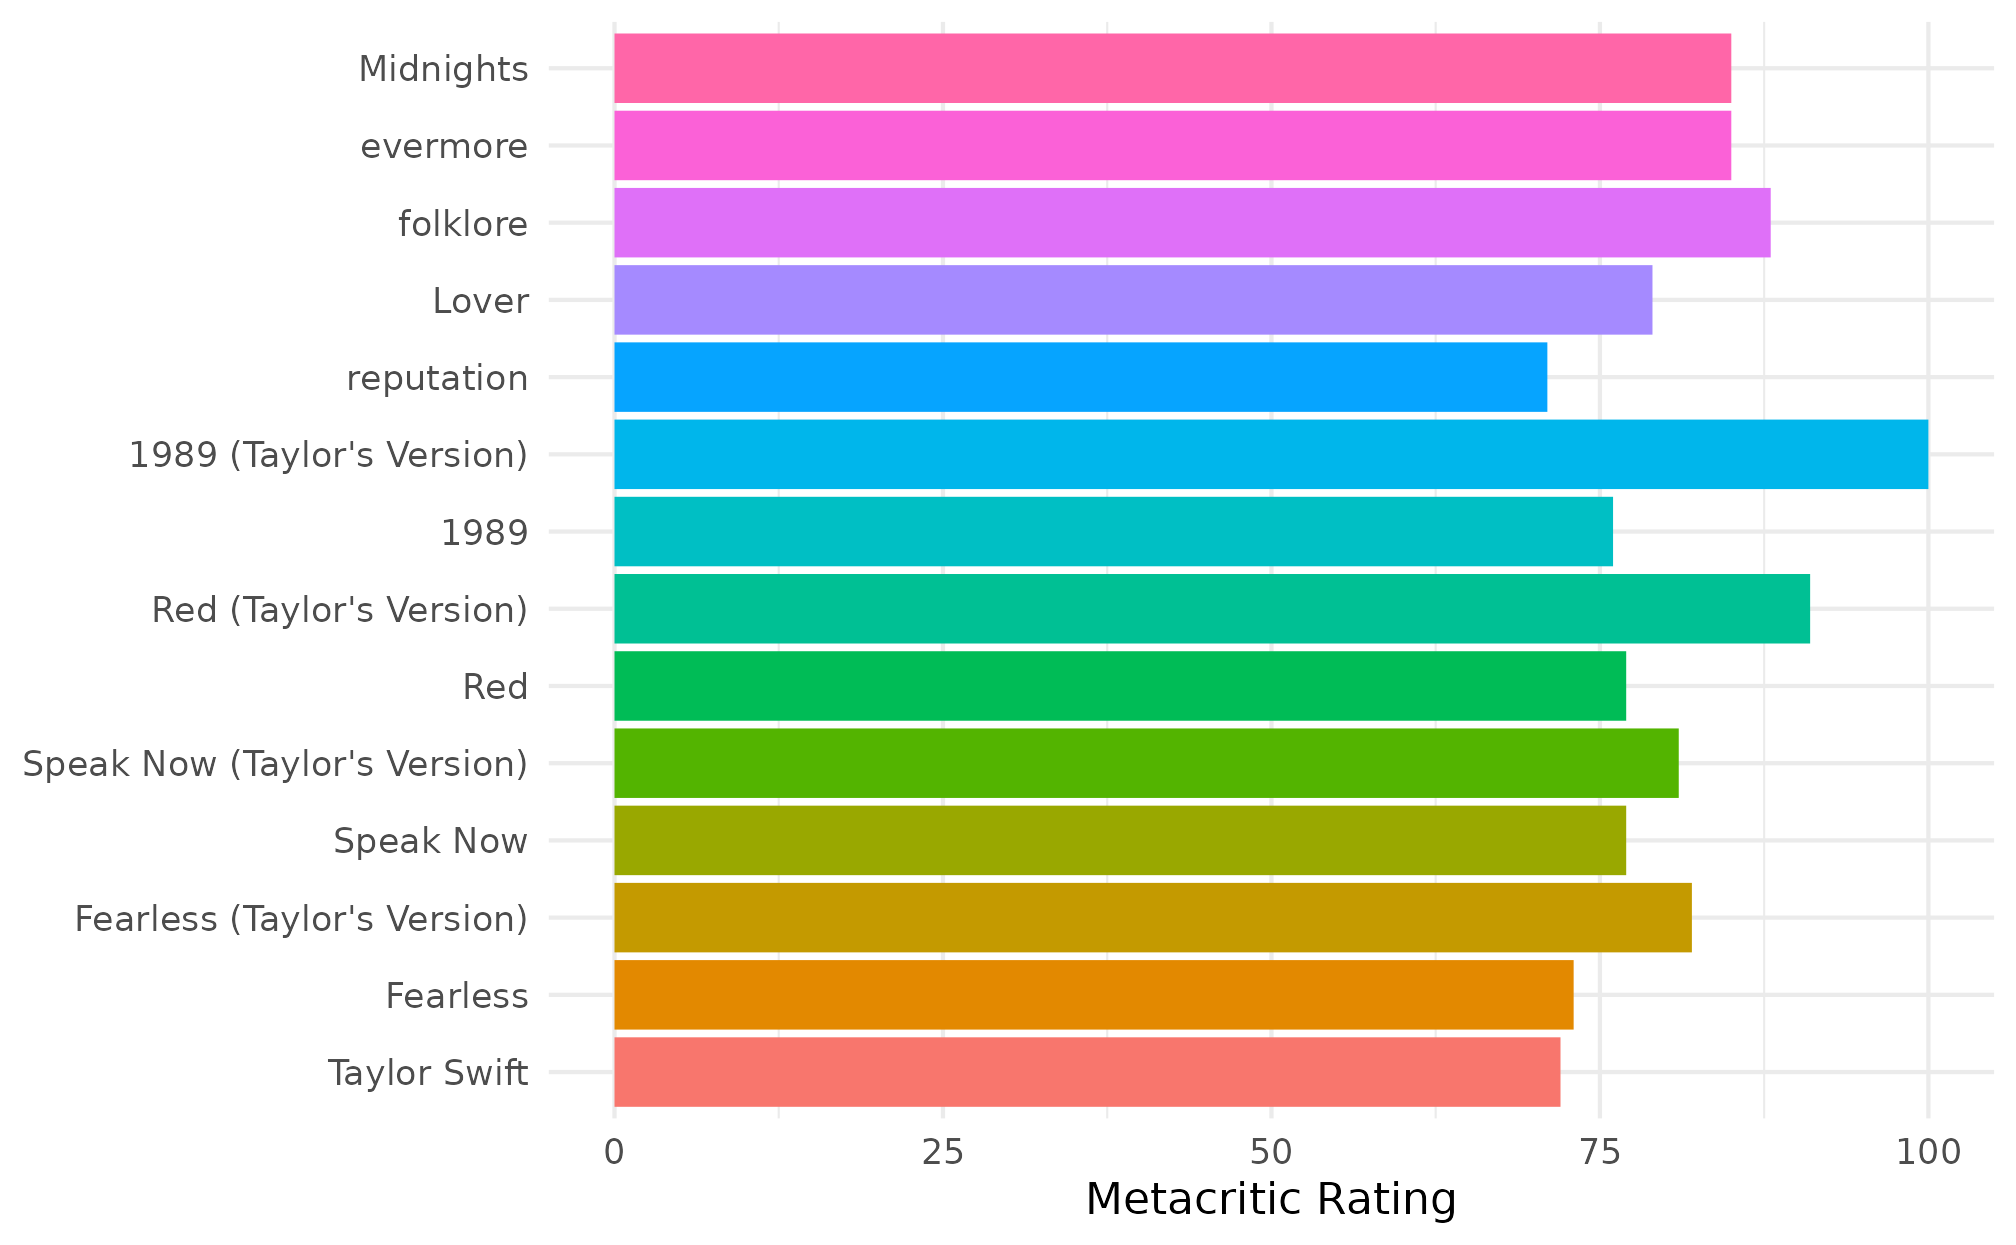
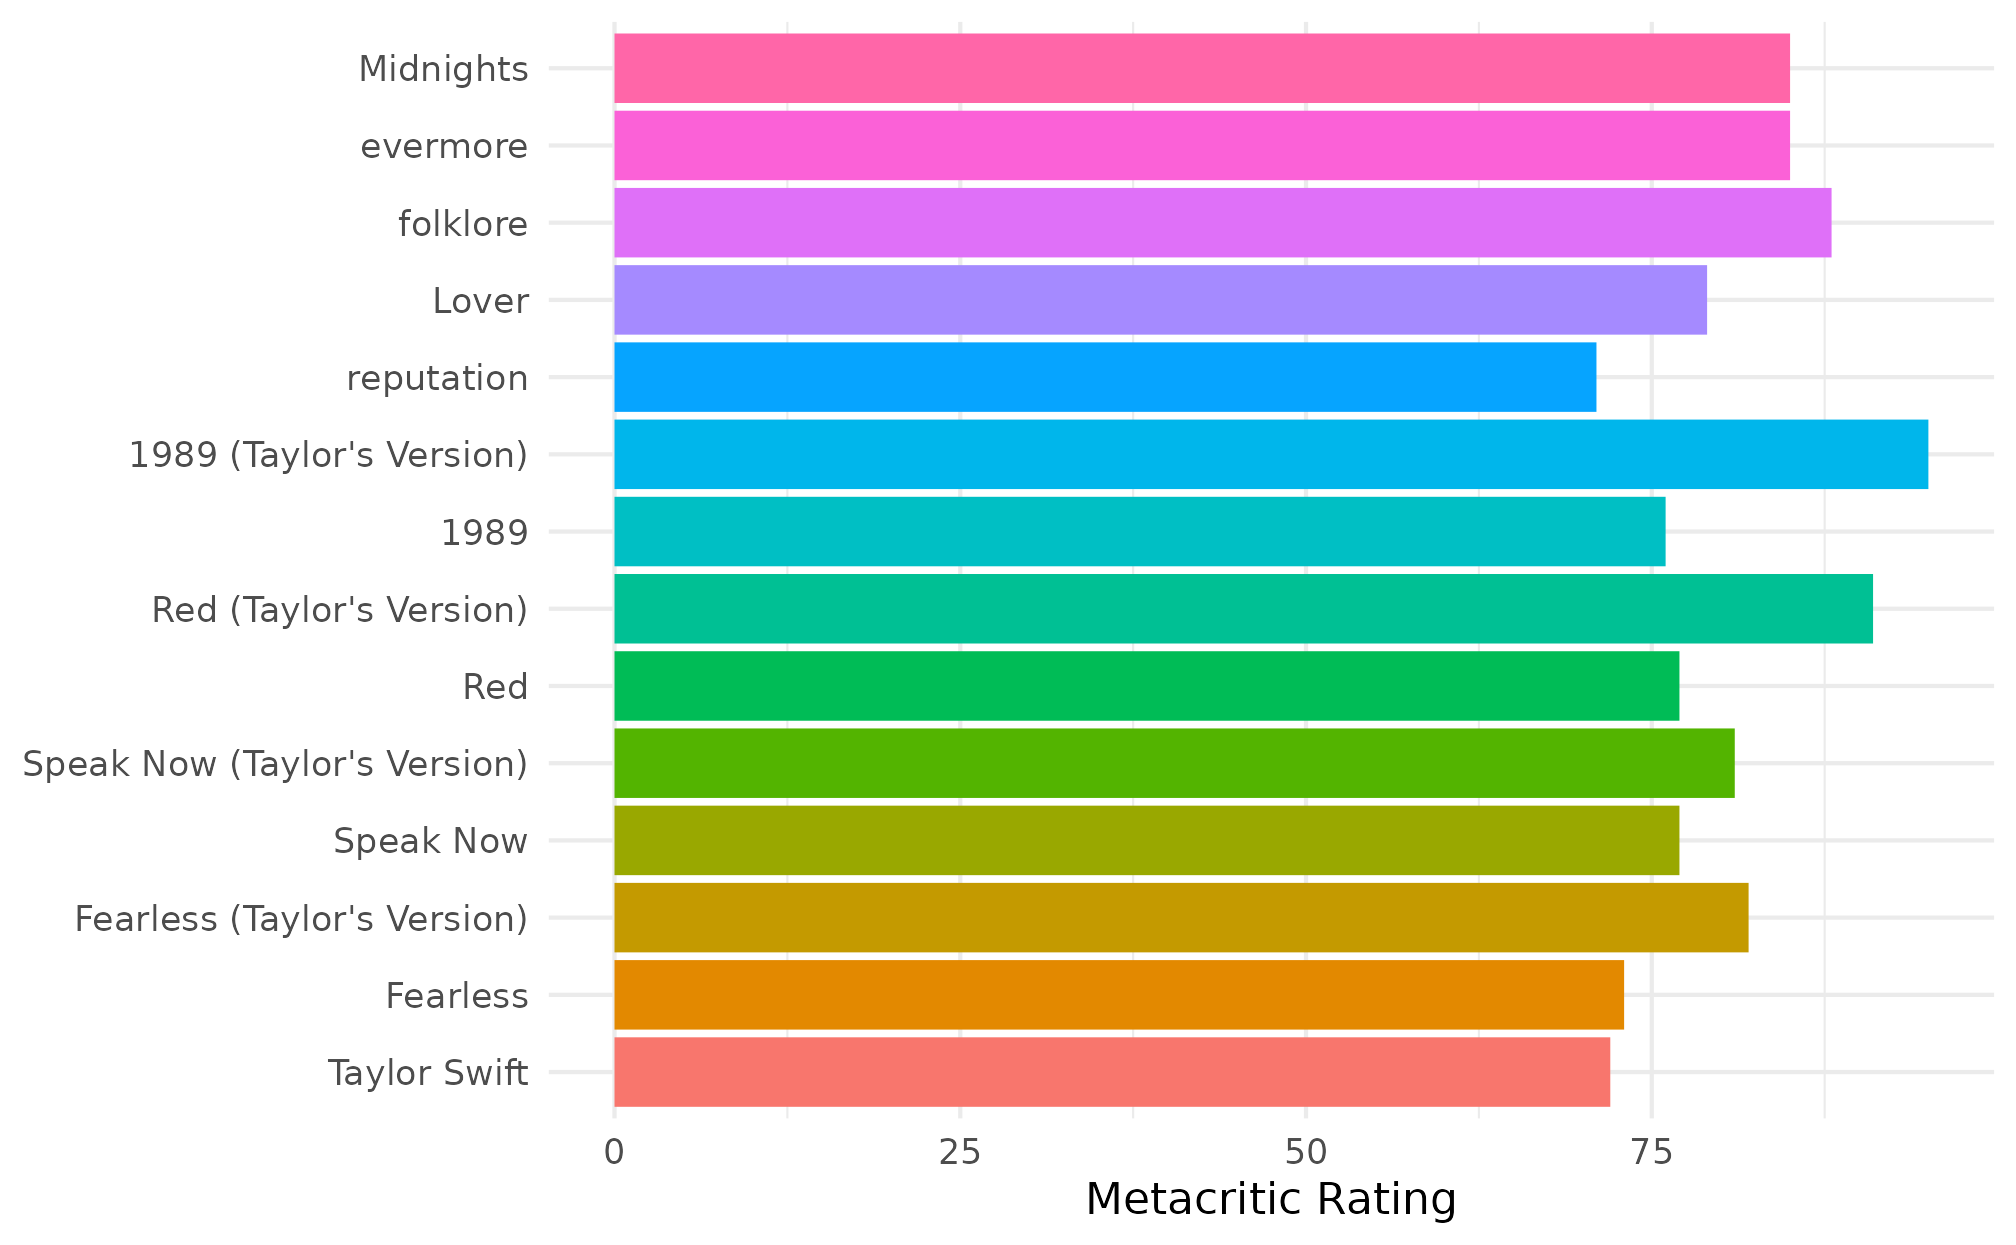
Deploying to gh-pages from @ wjakethompson/taylor@1ac675f8d6bd21444b2379b60e86ce49a575daf7 🚀

diff --git a/dev/reference/scale_taylor.html b/dev/reference/scale_taylor.html
@@ -258,15 +258,15 @@ other values are deprecated.</p></dd>
 <span class="r-in"><span><span class="op">(</span><span class="va">p</span> <span class="op">&lt;-</span> <span class="fu"><a href="https://ggplot2.tidyverse.org/reference/ggplot.html" class="external-link">ggplot</a></span><span class="op">(</span><span class="va">taylor_album_songs</span>, <span class="fu"><a href="https://ggplot2.tidyverse.org/reference/aes.html" class="external-link">aes</a></span><span class="op">(</span>x <span class="op">=</span> <span class="va">valence</span>, y <span class="op">=</span> <span class="va">energy</span><span class="op">)</span><span class="op">)</span> <span class="op">+</span></span></span>
 <span class="r-in"><span>   <span class="fu"><a href="https://ggplot2.tidyverse.org/reference/geom_point.html" class="external-link">geom_point</a></span><span class="op">(</span><span class="fu"><a href="https://ggplot2.tidyverse.org/reference/aes.html" class="external-link">aes</a></span><span class="op">(</span>color <span class="op">=</span> <span class="va">mode_name</span><span class="op">)</span>, size <span class="op">=</span> <span class="fl">2</span><span class="op">)</span> <span class="op">+</span></span></span>
 <span class="r-in"><span>   <span class="fu"><a href="https://ggplot2.tidyverse.org/reference/ggtheme.html" class="external-link">theme_bw</a></span><span class="op">(</span><span class="op">)</span><span class="op">)</span></span></span>
-<span class="r-wrn co"><span class="r-pr">#&gt;</span> <span class="warning">Warning: </span>Removed 5 rows containing missing values (`geom_point()`).</span>
+<span class="r-wrn co"><span class="r-pr">#&gt;</span> <span class="warning">Warning: </span>Removed 4 rows containing missing values (`geom_point()`).</span>
 <span class="r-plt img"><img src="scale_taylor-1.png" alt="" width="700" height="433"></span>
 <span class="r-in"><span><span class="va">p</span> <span class="op">+</span> <span class="fu">scale_color_taylor_d</span><span class="op">(</span><span class="op">)</span></span></span>
-<span class="r-wrn co"><span class="r-pr">#&gt;</span> <span class="warning">Warning: </span>Removed 5 rows containing missing values (`geom_point()`).</span>
+<span class="r-wrn co"><span class="r-pr">#&gt;</span> <span class="warning">Warning: </span>Removed 4 rows containing missing values (`geom_point()`).</span>
 <span class="r-plt img"><img src="scale_taylor-2.png" alt="" width="700" height="433"></span>
 <span class="r-in"><span></span></span>
 <span class="r-in"><span><span class="co"># change scale label</span></span></span>
 <span class="r-in"><span><span class="va">p</span> <span class="op">+</span> <span class="fu">scale_fill_taylor_d</span><span class="op">(</span><span class="st">"Mode of Track"</span><span class="op">)</span></span></span>
-<span class="r-wrn co"><span class="r-pr">#&gt;</span> <span class="warning">Warning: </span>Removed 5 rows containing missing values (`geom_point()`).</span>
+<span class="r-wrn co"><span class="r-pr">#&gt;</span> <span class="warning">Warning: </span>Removed 4 rows containing missing values (`geom_point()`).</span>
 <span class="r-plt img"><img src="scale_taylor-3.png" alt="" width="700" height="433"></span>
 <span class="r-in"><span></span></span>
 <span class="r-in"><span><span class="co"># select album palette to use, see ?taylor::album_palettes for more details</span></span></span>
@@ -284,13 +284,13 @@ other values are deprecated.</p></dd>
 <span class="r-in"><span><span class="op">(</span><span class="va">p</span> <span class="op">&lt;-</span> <span class="fu"><a href="https://ggplot2.tidyverse.org/reference/ggplot.html" class="external-link">ggplot</a></span><span class="op">(</span><span class="va">taylor_album_songs</span>, <span class="fu"><a href="https://ggplot2.tidyverse.org/reference/aes.html" class="external-link">aes</a></span><span class="op">(</span><span class="va">valence</span>, <span class="va">energy</span><span class="op">)</span><span class="op">)</span> <span class="op">+</span></span></span>
 <span class="r-in"><span>   <span class="fu"><a href="https://ggplot2.tidyverse.org/reference/geom_point.html" class="external-link">geom_point</a></span><span class="op">(</span><span class="fu"><a href="https://ggplot2.tidyverse.org/reference/aes.html" class="external-link">aes</a></span><span class="op">(</span>color <span class="op">=</span> <span class="va">danceability</span><span class="op">)</span><span class="op">)</span> <span class="op">+</span></span></span>
 <span class="r-in"><span>   <span class="fu"><a href="https://ggplot2.tidyverse.org/reference/ggtheme.html" class="external-link">theme_minimal</a></span><span class="op">(</span><span class="op">)</span><span class="op">)</span></span></span>
-<span class="r-wrn co"><span class="r-pr">#&gt;</span> <span class="warning">Warning: </span>Removed 5 rows containing missing values (`geom_point()`).</span>
+<span class="r-wrn co"><span class="r-pr">#&gt;</span> <span class="warning">Warning: </span>Removed 4 rows containing missing values (`geom_point()`).</span>
 <span class="r-plt img"><img src="scale_taylor-7.png" alt="" width="700" height="433"></span>
 <span class="r-in"><span><span class="va">p</span> <span class="op">+</span> <span class="fu">scale_color_taylor_c</span><span class="op">(</span>album <span class="op">=</span> <span class="st">"Fearless"</span><span class="op">)</span></span></span>
-<span class="r-wrn co"><span class="r-pr">#&gt;</span> <span class="warning">Warning: </span>Removed 5 rows containing missing values (`geom_point()`).</span>
+<span class="r-wrn co"><span class="r-pr">#&gt;</span> <span class="warning">Warning: </span>Removed 4 rows containing missing values (`geom_point()`).</span>
 <span class="r-plt img"><img src="scale_taylor-8.png" alt="" width="700" height="433"></span>
 <span class="r-in"><span><span class="va">p</span> <span class="op">+</span> <span class="fu">scale_color_taylor_c</span><span class="op">(</span>album <span class="op">=</span> <span class="st">"folklore"</span><span class="op">)</span></span></span>
-<span class="r-wrn co"><span class="r-pr">#&gt;</span> <span class="warning">Warning: </span>Removed 5 rows containing missing values (`geom_point()`).</span>
+<span class="r-wrn co"><span class="r-pr">#&gt;</span> <span class="warning">Warning: </span>Removed 4 rows containing missing values (`geom_point()`).</span>
 <span class="r-plt img"><img src="scale_taylor-9.png" alt="" width="700" height="433"></span>
 </code></pre></div>
     </div>

diff --git a/dev/index.html b/dev/index.html
@@ -197,7 +197,7 @@
 <span><span class="co">#&gt; 13 Red (Taylor's Version)        FALSE 2021-11-12                  91        8.9</span></span>
 <span><span class="co">#&gt; 14 Midnights                     FALSE 2022-10-21                  85        8.3</span></span>
 <span><span class="co">#&gt; 15 Speak Now (Taylor's Version)  FALSE 2023-07-07                  81        9.2</span></span>
-<span><span class="co">#&gt; 16 1989 (Taylor's Version)       FALSE 2023-10-27                 100       NA</span></span></code></pre></div>
+<span><span class="co">#&gt; 16 1989 (Taylor's Version)       FALSE 2023-10-27                  95       NA</span></span></code></pre></div>
 </div>
 <div class="section level2">
 <h2 id="code-of-conduct">Code of Conduct<a class="anchor" aria-label="anchor" href="#code-of-conduct"></a>
@@ -249,9 +249,12 @@
 <h2 data-toc-skip>Dev status</h2>
 <ul class="list-unstyled">
 <li><a href="https://www.repostatus.org/#active" class="external-link"><img src="https://www.repostatus.org/badges/latest/active.svg" alt="Project Status: Active – The project has reached a stable, usable state and is being actively developed."></a></li>
-<li><a href="https://CRAN.R-project.org/package=taylor" class="external-link"><img src="https://www.r-pkg.org/badges/version/taylor" alt="CRAN status"></a></li>
+<li><a href="https://lifecycle.r-lib.org/articles/stages.html" class="external-link"><img src="https://img.shields.io/badge/lifecycle-stable-brightgreen.svg" alt="lifecycle"></a></li>
+<li><a href="https://CRAN.R-project.org/package=taylor" class="external-link"><img src="https://www.r-pkg.org/badges/version/taylor" alt="R package version"></a></li>
+<li><a href="https://cran.r-project.org/package=taylor" class="external-link"><img src="https://cranlogs.r-pkg.org/badges/taylor" alt="Package downloads"></a></li>
 <li><a href="https://github.com/wjakethompson/taylor/actions" class="external-link"><img src="https://github.com/wjakethompson/taylor/workflows/R-CMD-check/badge.svg" alt="R-CMD-check"></a></li>
 <li><a href="https://app.codecov.io/gh/wjakethompson/taylor" class="external-link"><img src="https://codecov.io/gh/wjakethompson/taylor/branch/main/graph/badge.svg?token=TECvfoOYHh" alt="codecov"></a></li>
+<li><a href="https://app.netlify.com/sites/r-taylor/deploys" class="external-link"><img src="https://api.netlify.com/api/v1/badges/b80199c9-57a9-4d08-87e9-4887a67d01e4/deploy-status" alt="Netlify Status"></a></li>
 <li><a href="https://keybase.io/wjakethompson" class="external-link"><img src="https://img.shields.io/badge/Keybase-Verified-brightgreen.svg" alt="Signed by"></a></li>
 </ul>
 </div>

diff --git a/dev/articles/plotting.html b/dev/articles/plotting.html
@@ -239,7 +239,7 @@ ratings of Taylor’s albums, stored in
 <span><span class="co">#&gt; <span style="color: #BCBCBC;">13</span> Red (Taylor's Version)        FALSE 2021-11-12                  91        8.9</span></span>
 <span><span class="co">#&gt; <span style="color: #BCBCBC;">14</span> Midnights                     FALSE 2022-10-21                  85        8.3</span></span>
 <span><span class="co">#&gt; <span style="color: #BCBCBC;">15</span> Speak Now (Taylor's Version)  FALSE 2023-07-07                  81        9.2</span></span>
-<span><span class="co">#&gt; <span style="color: #BCBCBC;">16</span> 1989 (Taylor's Version)       FALSE 2023-10-27                 100       <span style="color: #BB0000;">NA</span></span></span></code></pre></div>
+<span><span class="co">#&gt; <span style="color: #BCBCBC;">16</span> 1989 (Taylor's Version)       FALSE 2023-10-27                  95       <span style="color: #BB0000;">NA</span></span></span></code></pre></div>
 <p>Let’s create a bar graph showing the rating of each album. We’ll
 first make the album name a factor variable. A convenience variable,
 <code><a href="../reference/album_levels.html">taylor::album_levels</a></code>, is included in the package that will
